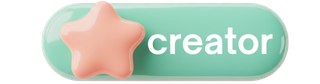
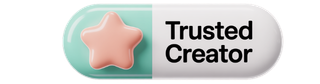
Changes

diff --git a/src/pages/Creators.tsx b/src/pages/Creators.tsx
@@ -4,7 +4,7 @@ import { supabase } from "@/integrations/supabase/client";
 import { Avatar, AvatarFallback, AvatarImage } from "@/components/ui/avatar";
 import { Badge } from "@/components/ui/badge";
 import { BadgeCheck, Star } from "lucide-react";
-import UserBadge from "@/components/profile/UserBadge";
+
 import logo from "@/assets/logo-clean.png";
 
 interface CreatorCard {
@@ -126,10 +126,10 @@ const CreatorCardItem = ({ creator }: { creator: CreatorCard }) => (
         />
         <div className="absolute inset-0 bg-gradient-to-t from-card/80 to-transparent" />
         {/* Avatar overlapping */}
-        <div className="absolute -bottom-6 left-4">
-          <Avatar className="w-14 h-14 border-[3px] border-card shadow-md">
+        <div className="absolute -bottom-7 left-4">
+          <Avatar className="w-16 h-16 border-[3px] border-card shadow-md">
             {creator.avatar_url && <AvatarImage src={creator.avatar_url} alt={creator.display_name} className="object-cover" />}
-            <AvatarFallback className="bg-primary text-primary-foreground text-lg font-bold">
+            <AvatarFallback className="bg-primary text-primary-foreground text-xl font-bold">
               {creator.display_name?.[0]?.toUpperCase() || "C"}
             </AvatarFallback>
           </Avatar>
@@ -137,16 +137,20 @@ const CreatorCardItem = ({ creator }: { creator: CreatorCard }) => (
       </div>
 
       {/* Content */}
-      <div className="pt-8 pb-4 px-4">
+      <div className="pt-10 pb-4 px-4">
         {/* Name + Badge row */}
-        <div className="flex items-start justify-between gap-2 mb-1">
-          <h3 className="font-semibold text-sm leading-tight">{creator.display_name}</h3>
-        </div>
-
-        {/* Badge */}
-        <div className="mb-2">
+        <div className="flex items-center gap-2 flex-wrap mb-2">
+          <h3 className="font-semibold text-xl leading-tight">{creator.display_name}</h3>
           {creator.badge_type ? (
-            <UserBadge badgeType={creator.badge_type as any} size="sm" />
+            <img
+              src={(() => {
+                const map: Record<string, string> = { founder: "/badges/founder.png", trusted_creator: "/badges/creator.png", trusted_traveler: "/badges/creator.png", trusted_provider: "/badges/provider.png" };
+                return map[creator.badge_type!] || "";
+              })()}
+              alt={creator.badge_type}
+              className="h-7 w-auto"
+              draggable={false}
+            />
           ) : (
             <Badge className="bg-primary/10 text-primary border-primary/20 gap-1 text-xs">
               <BadgeCheck className="w-3 h-3" /> creator

diff --git a/src/pages/CreatorProfile.tsx b/src/pages/CreatorProfile.tsx
@@ -300,21 +300,23 @@ const CreatorProfile = () => {
       {/* Profile Header — overlapping cover */}
       <div className="relative max-w-2xl mx-auto px-4 -mt-14 z-10">
         <div className="flex items-end gap-4 mb-4">
-          <Avatar className="w-24 h-24 border-4 border-background shadow-elevated shrink-0">
+          <Avatar className="w-28 h-28 border-4 border-background shadow-elevated shrink-0">
             {profile.avatar_url && <AvatarImage src={profile.avatar_url} alt={profile.display_name} className="object-cover" />}
             <AvatarFallback className="bg-primary text-primary-foreground text-3xl font-bold">
               {profile.display_name?.[0]?.toUpperCase() || "C"}
             </AvatarFallback>
           </Avatar>
           <div className="pb-1 flex-1 min-w-0">
-            <h1 className="text-2xl font-bold leading-tight">{profile.display_name}</h1>
-            {userBadge ? (
-              <div className="mt-1"><UserBadge badgeType={userBadge as any} /></div>
-            ) : (
-              <Badge className="bg-primary/10 text-primary border-primary/20 gap-1 text-xs mt-1">
-                <BadgeCheck className="w-3 h-3" /> denied.care creator
-              </Badge>
-            )}
+            <div className="flex items-center gap-2 flex-wrap">
+              <h1 className="text-3xl font-bold leading-tight">{profile.display_name}</h1>
+              {userBadge ? (
+                <UserBadge badgeType={userBadge as any} />
+              ) : (
+                <Badge className="bg-primary/10 text-primary border-primary/20 gap-1 text-xs">
+                  <BadgeCheck className="w-3 h-3" /> denied.care creator
+                </Badge>
+              )}
+            </div>
           </div>
         </div>
 

diff --git a/src/components/profile/UserBadge.tsx b/src/components/profile/UserBadge.tsx
@@ -20,7 +20,7 @@ const UserBadge = ({ badgeType, size = "default" }: UserBadgeProps) => {
     <img
       src={src}
       alt={badgeType}
-      className={size === "sm" ? "h-5 w-auto" : "h-7 w-auto"}
+      className={size === "sm" ? "h-6 w-auto" : "h-9 w-auto"}
       draggable={false}
     />
   );
